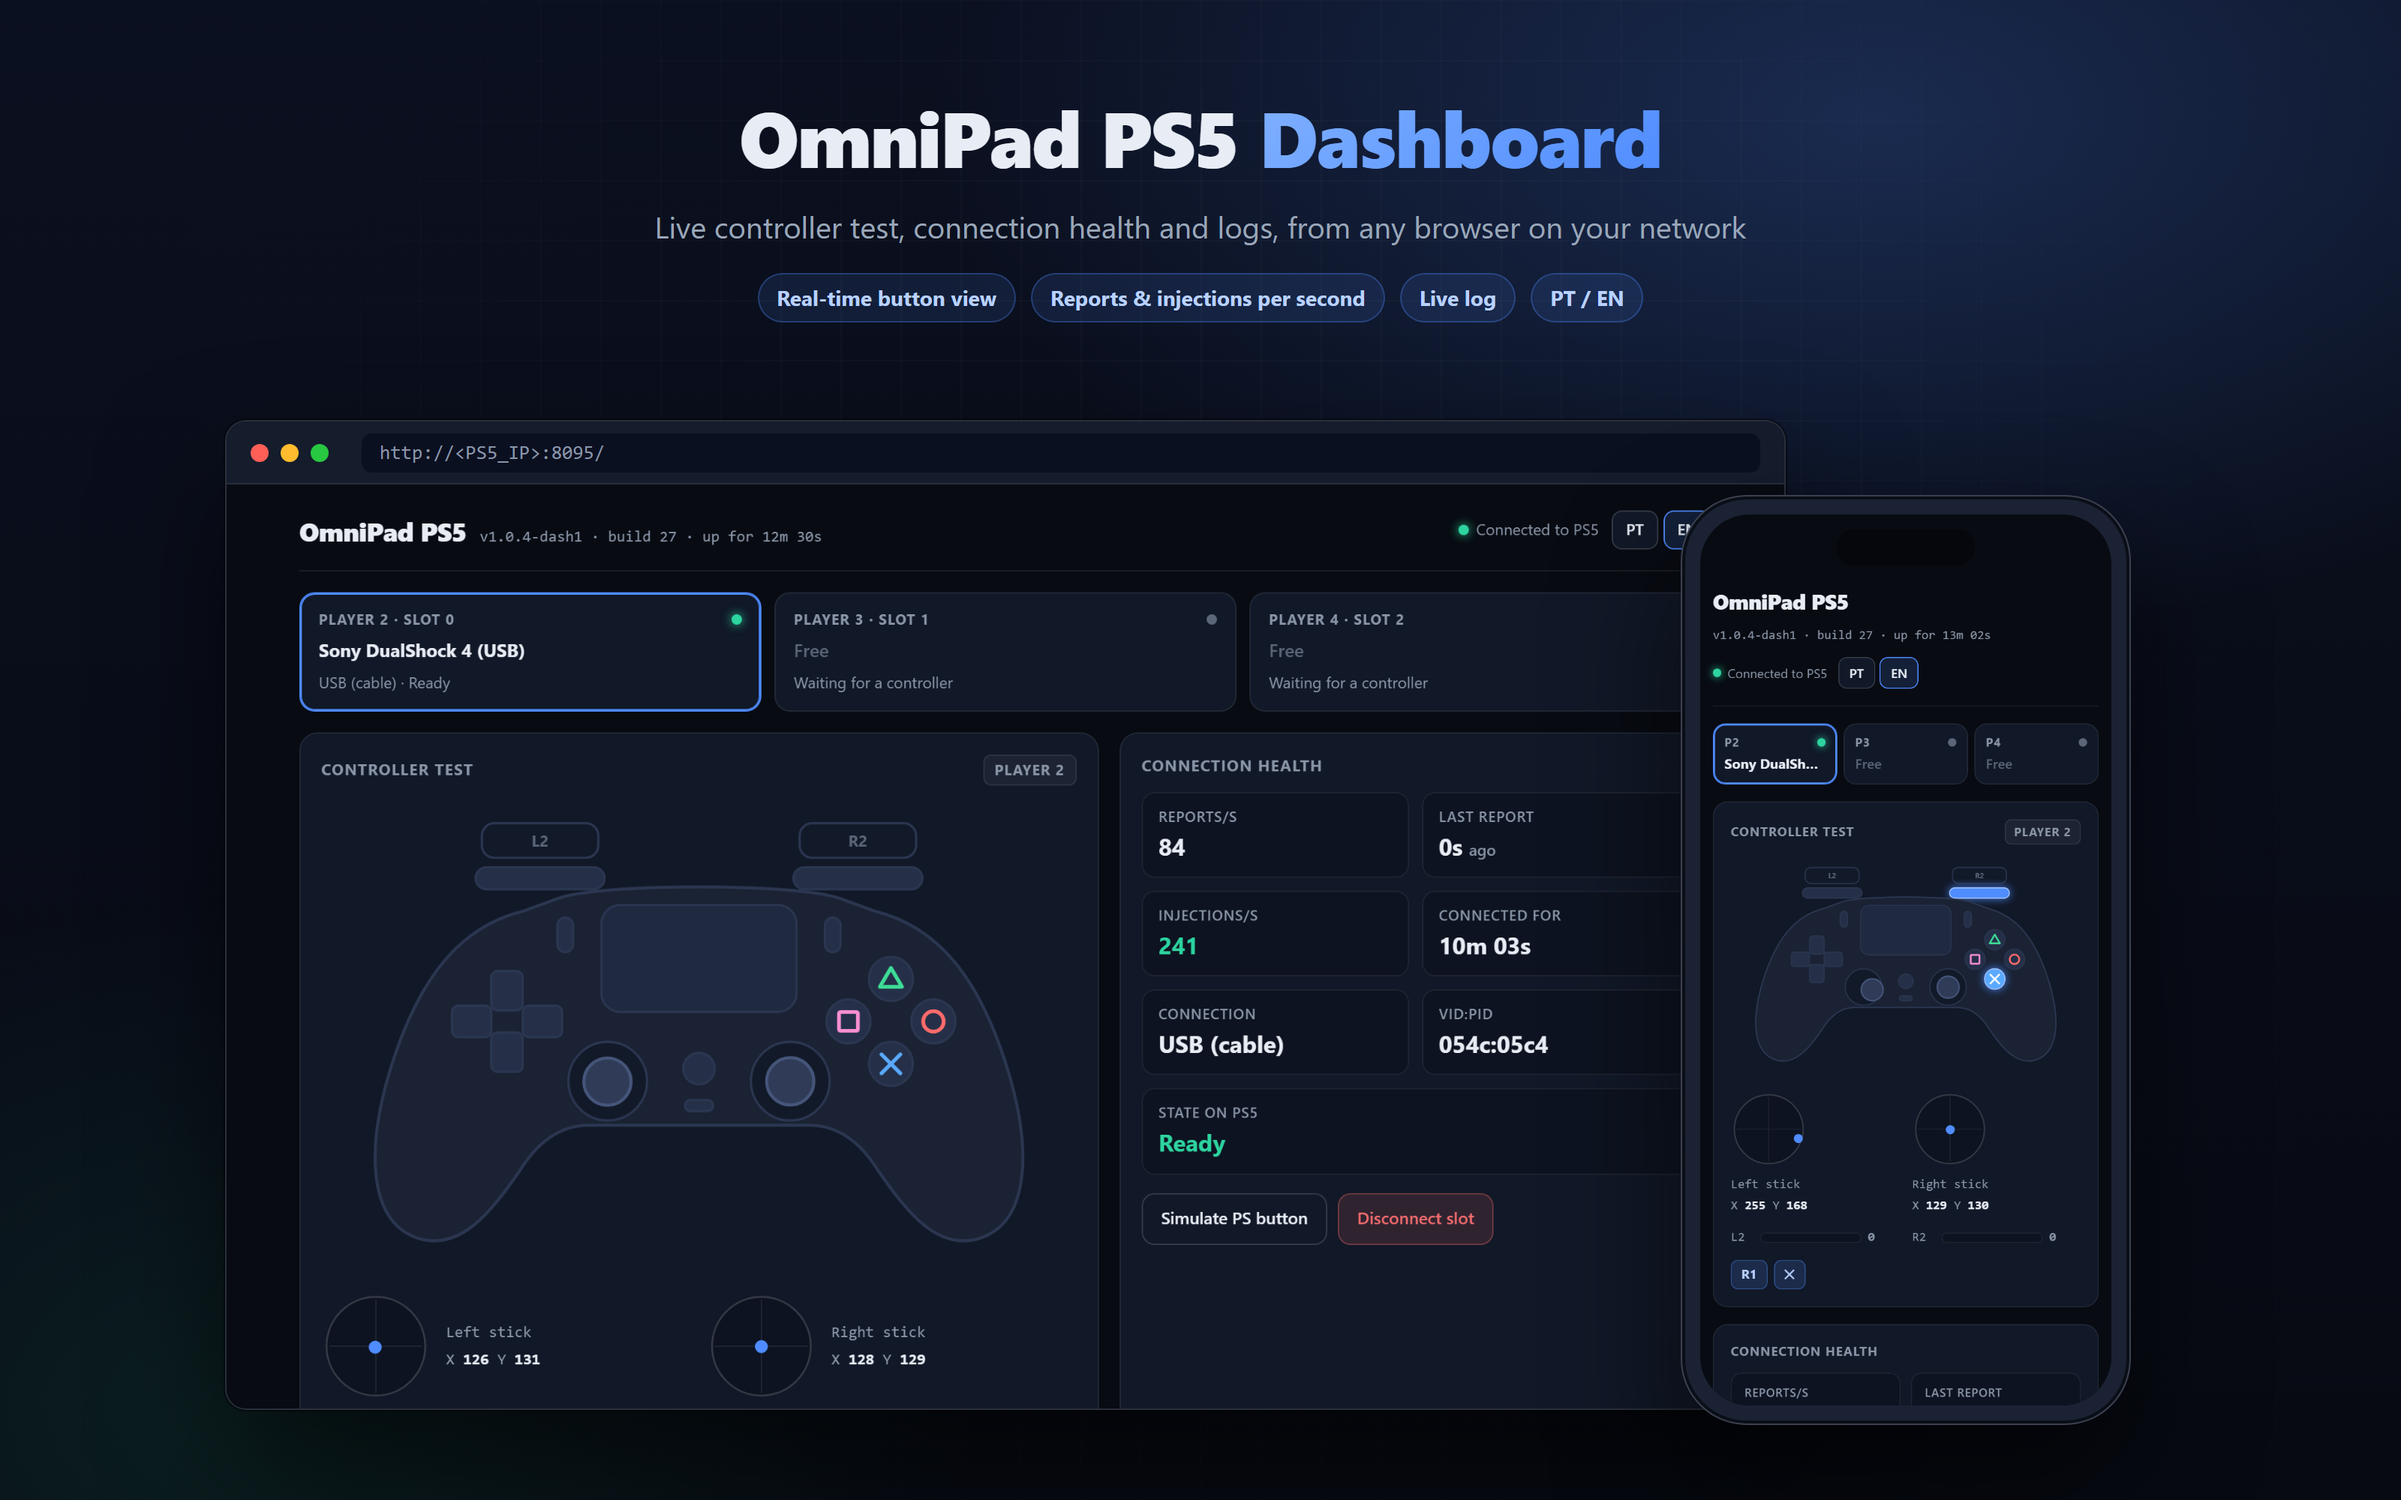
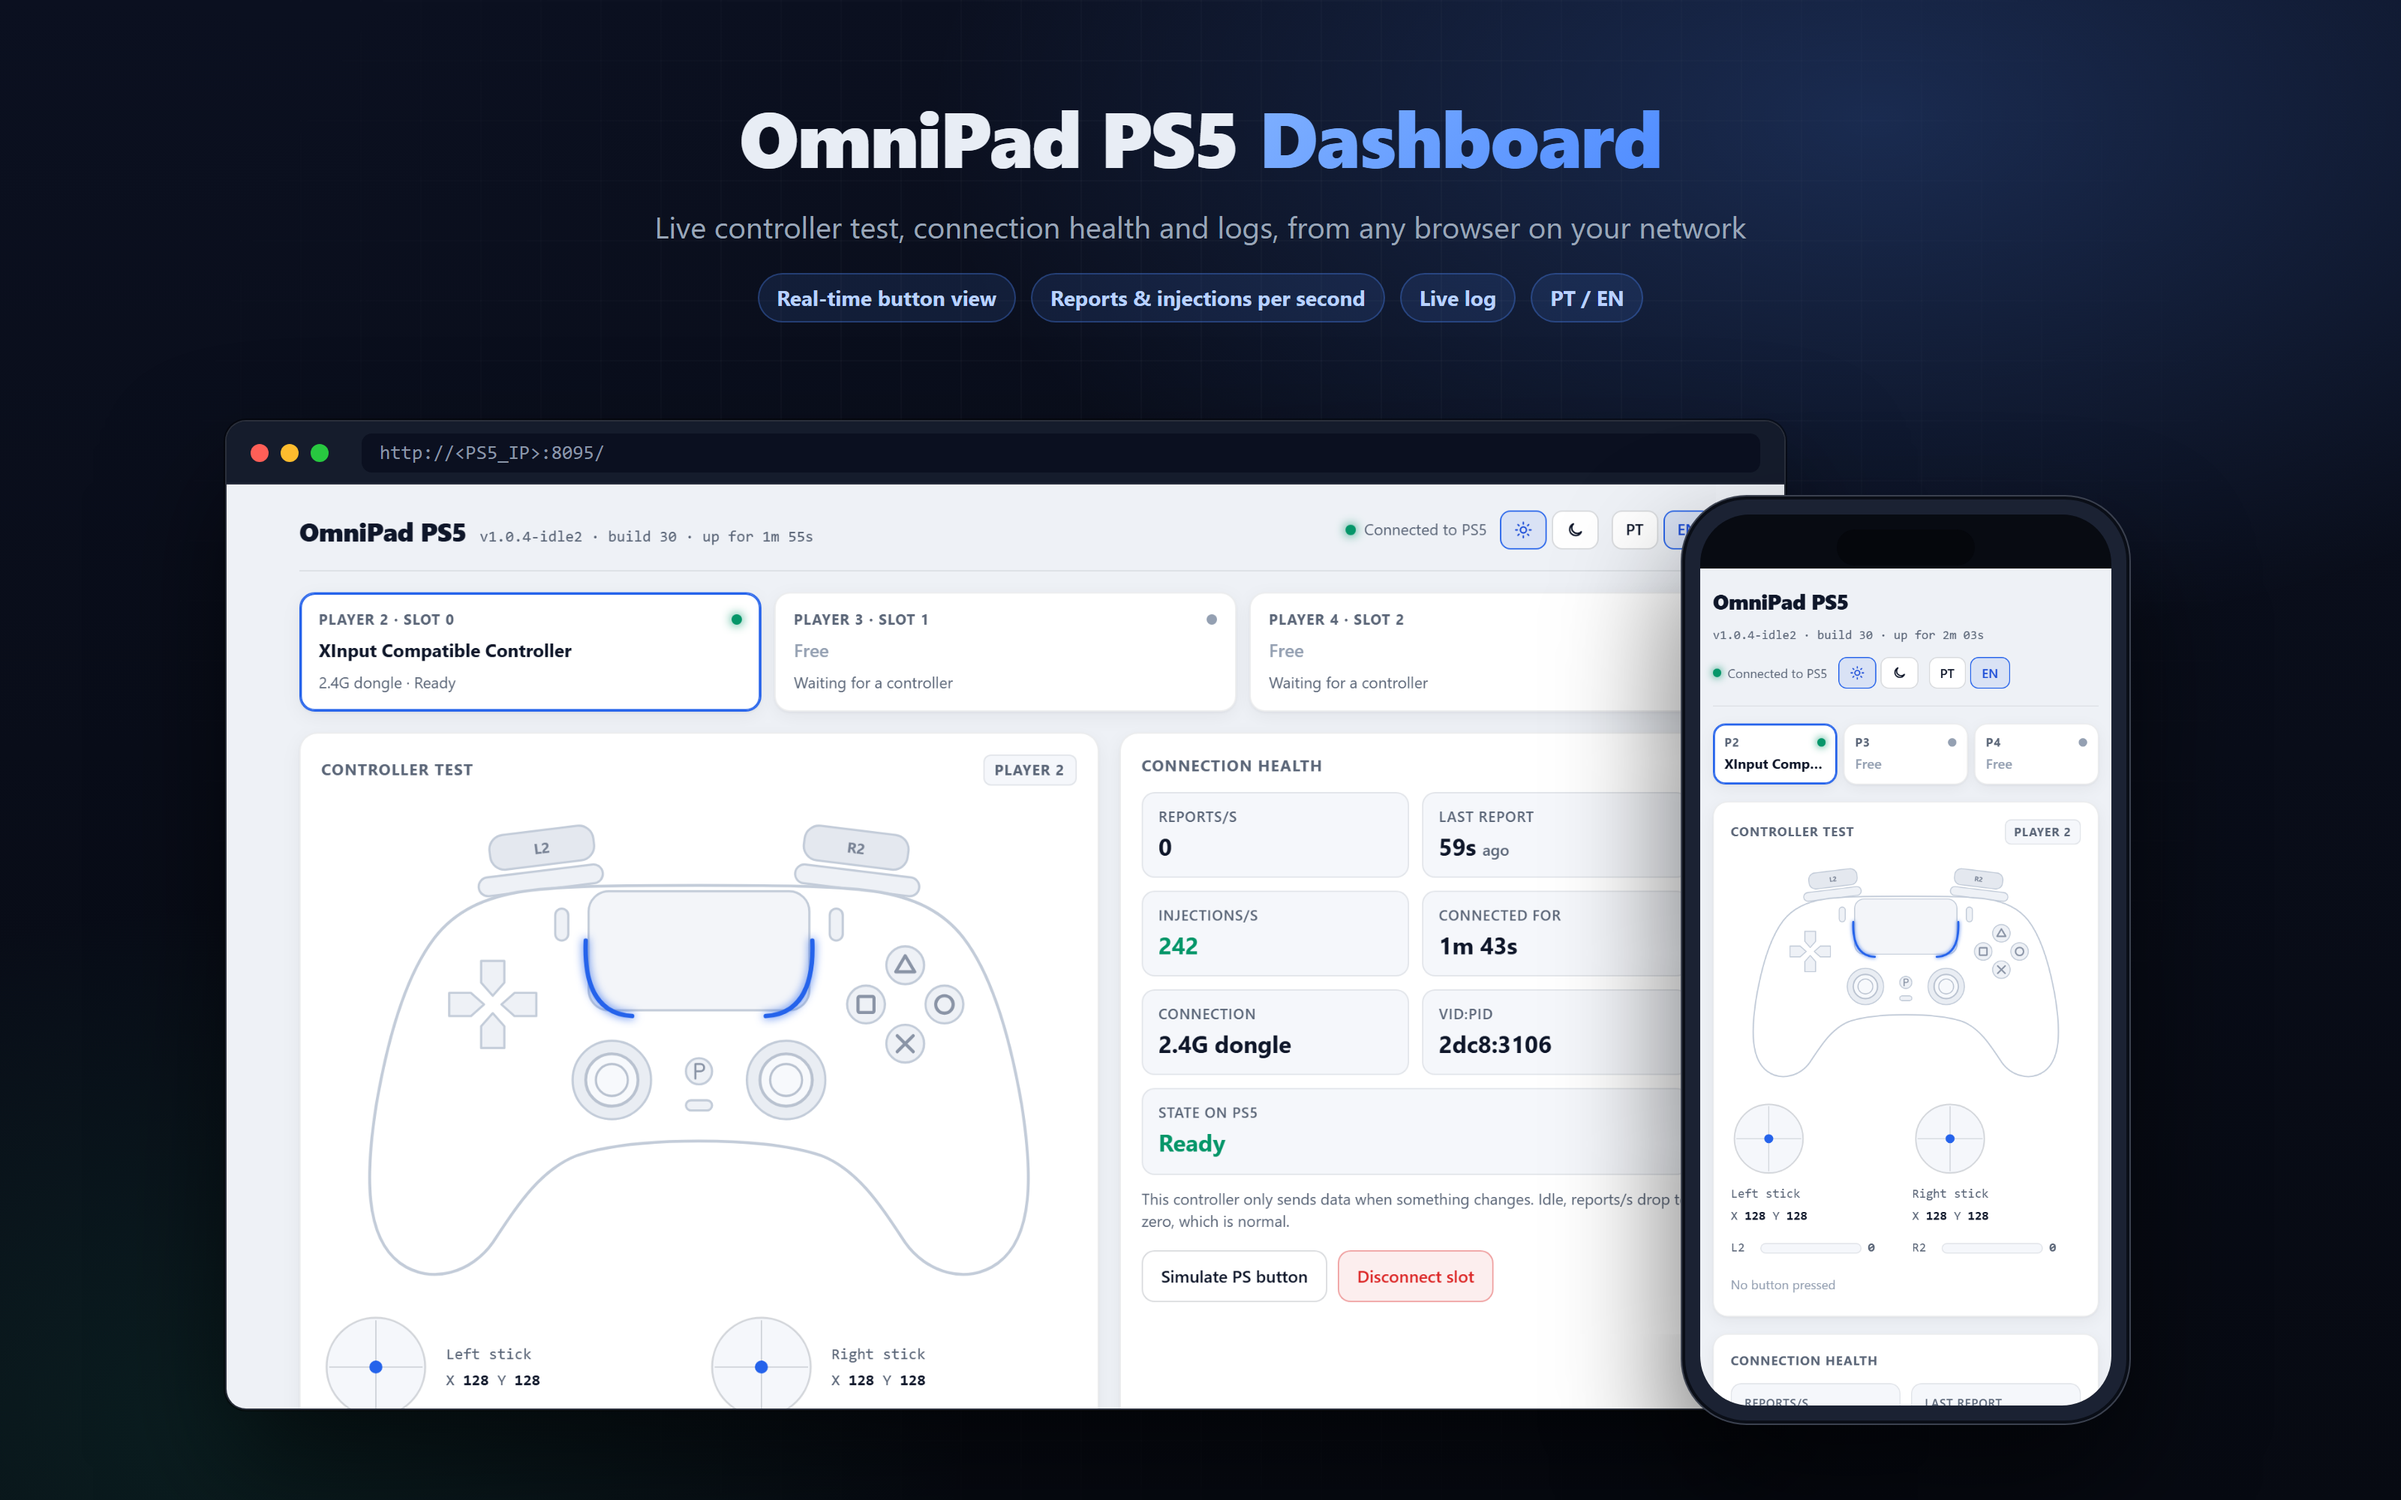
docs: dashboard novo no README e no HOW_IT_WORKS
- README: o passo 4 descreve o dashboard novo (teste ao vivo, saude da
  conexao, regra de inatividade, log, acoes, temas e idiomas) com o
  mockup no topo.
- HOW_IT_WORKS: rotas novas (/api/state, /api/log?since=, /api/exit),
  servidor em thread propria e as ferramentas pra mexer no dashboard
  (mock, proxy pro PS5 e captura de tela).
- Capturas e mockup refeitos com o visual atual, tirados do PS5 13.60
  com o 8BitDo Ultimate 2C conectado pelo dongle.

diff --git a/README.md b/README.md
@@ -48,7 +48,7 @@ graph TD
         HOTPLUG["Dynamic USB Hotplug Driver<br/>(250Hz Polling / 4ms Tick)"]
         NORM["Canonical Input Normalizer<br/>(pad_packet_t & Deadzones)"]
         SLOTS["3-Slot Multi-Device Multiplexer<br/>(Virtual DualSense Pool)"]
-        WEB["Web Server & REST API<br/>(Port 8095 - Dark UI)"]
+        WEB["Web Server & REST API<br/>(Port 8095 - Dashboard)"]
         TCP["Local LAN Testing Socket<br/>(Port 9045 - TCP Stream)"]
 
         USB --> HOTPLUG
@@ -84,7 +84,7 @@ graph TD
 | **Bypass Error `0x803B0006`** | Non-destructive `ptrace` code cave in `SceShellUI` respecting W^X protections. |
 | **Multi-Player (Up to 4 Players)** | 3 virtual DualSense slots (Players 2–4) + 1 official DualSense (Player 1). |
 | **Dynamic Bus Discovery** | Automatically scans `/dev/ugen*.*` nodes across PS5 Fat, Slim (CFI-2000), and Pro (CFI-7000). |
-| **Embedded Web Dashboard** | Dark UI dashboard on port 8095 for real-time slot status, battery monitoring, and manual controls. |
+| **Embedded Web Dashboard** | Dashboard on port 8095 with a live controller test, connection health, live log and manual controls. |
 | **LAN Test Port** | Inject test frames over TCP port 9045 without needing physical hardware connected. |
 
 ---
@@ -173,10 +173,16 @@ Open the control center from any smartphone, PC, or console browser on your loca
 http://<PS5_IP>:8095/
 ```
 
-- 🎮 **Slot Status:** Real-time visibility of all 4 player slots (connected gamepads and connection types).
-- ⚡ **Power Telemetry:** Live power status (`⚡ USB Cable / 5V` for wired controllers and dongles).
-- 🔘 **Simulate PS Button:** Remotely trigger the PS button to change accounts or open the system menu.
-- 🔄 **Disconnect Slot:** Free any individual slot instantly without unplugging hardware.
+![OmniPad PS5 dashboard on a PC browser and a phone](docs/images/dashboard-mockup.png)
+
+- 🎮 **Live controller test:** a DualSense drawing lights up every button you press, with both sticks, analog triggers and a list of the buttons held. It works as soon as the controller is plugged in, even while the PS5 is still asking for a profile.
+- 📈 **Connection health:** reports per second from the controller, time since its last report, injections per second into the PS5 (should stay close to 250), connection type, VID:PID and the slot state on the console.
+- ⏱ **Idle rule:** for 2.4G dongles that release the slot after a period without input, the page shows the countdown. Controllers that announce when they switch off (8BitDo Ultimate 2C) don't have this rule.
+- 📜 **Live log:** the payload log streams into the page, with a filter and quick views for USB, slots and errors.
+- 🔘 **Actions:** simulate the PS button or free a slot, per controller; disconnect everything or stop OmniPad.
+- 🌗 **Light and dark themes, Portuguese and English,** and a compact layout for phones.
+
+The dashboard runs on its own thread, so keeping it open does not delay controller input.
 
 ---
 

diff --git a/docs/HOW_IT_WORKS.md b/docs/HOW_IT_WORKS.md
@@ -153,9 +153,18 @@ Games and emulators receive the inputs directly from the kernel, recognizing you
 
 ## 🌐 Web Dashboard (Port 8095)
 
-An embedded zero-dependency HTTP server serves the dashboard:
-- **`GET /`**: Glassmorphism Dark UI for smartphone, PC, or console browsers.
+An embedded zero-dependency HTTP server serves the dashboard from its own thread, so a slow client never delays the 250Hz injection loop:
+- **`GET /`**: the dashboard page. Its source is `web/index.html`; the build embeds it into the payload with `tools/embed_web.py`.
+- **`GET /api/state`**: live view polled ~30 times per second: per slot, the buttons, sticks and triggers the controller is sending (also before the slot is ready), VID:PID, time since the last report, report and injection counters, and the idle-release time (0 = never).
 - **`GET /api/status`**: JSON telemetry for all virtual slots, power telemetry, and connection types.
+- **`GET /api/log`**: the last 32 KB of the payload log. With `?since=<offset>` it returns only what was written after that byte, and the `X-Log-Offset` header says where the next call starts.
 - **`POST /api/pair`**: Reserved endpoint for the upcoming v1.1.0 Bluetooth pairing window (currently reports USB Plug & Play status).
 - **`POST /api/press_ps`**: Remotely triggers the PS button to open profile selection or wake the console.
 - **`POST /api/disconnect`**: Frees a specific slot on demand.
+- **`POST /api/exit`**: Stops the payload.
+
+### Working on the dashboard
+
+- `python tools/mock_dashboard.py` serves `web/index.html` with a simulated API (a DualShock 4 on a cable and a 2.4G dongle that only reports on change), so the page can be changed without a PS5.
+- `python tools/mock_dashboard.py 8096 --proxy http://<PS5_IP>:8095` serves the local page but forwards `/api/*` to a running OmniPad, to test page changes against real controllers without rebuilding the payload.
+- `node tools/screenshot_dashboard.mjs <url> <out.png> [width] [height] [lang] [mobile]` captures the page with headless Chrome, waiting in real time so the rate counters show real values. The README images in `docs/images/` come from it; `docs/images/mockup.html` composes `dashboard-mockup.png`.
